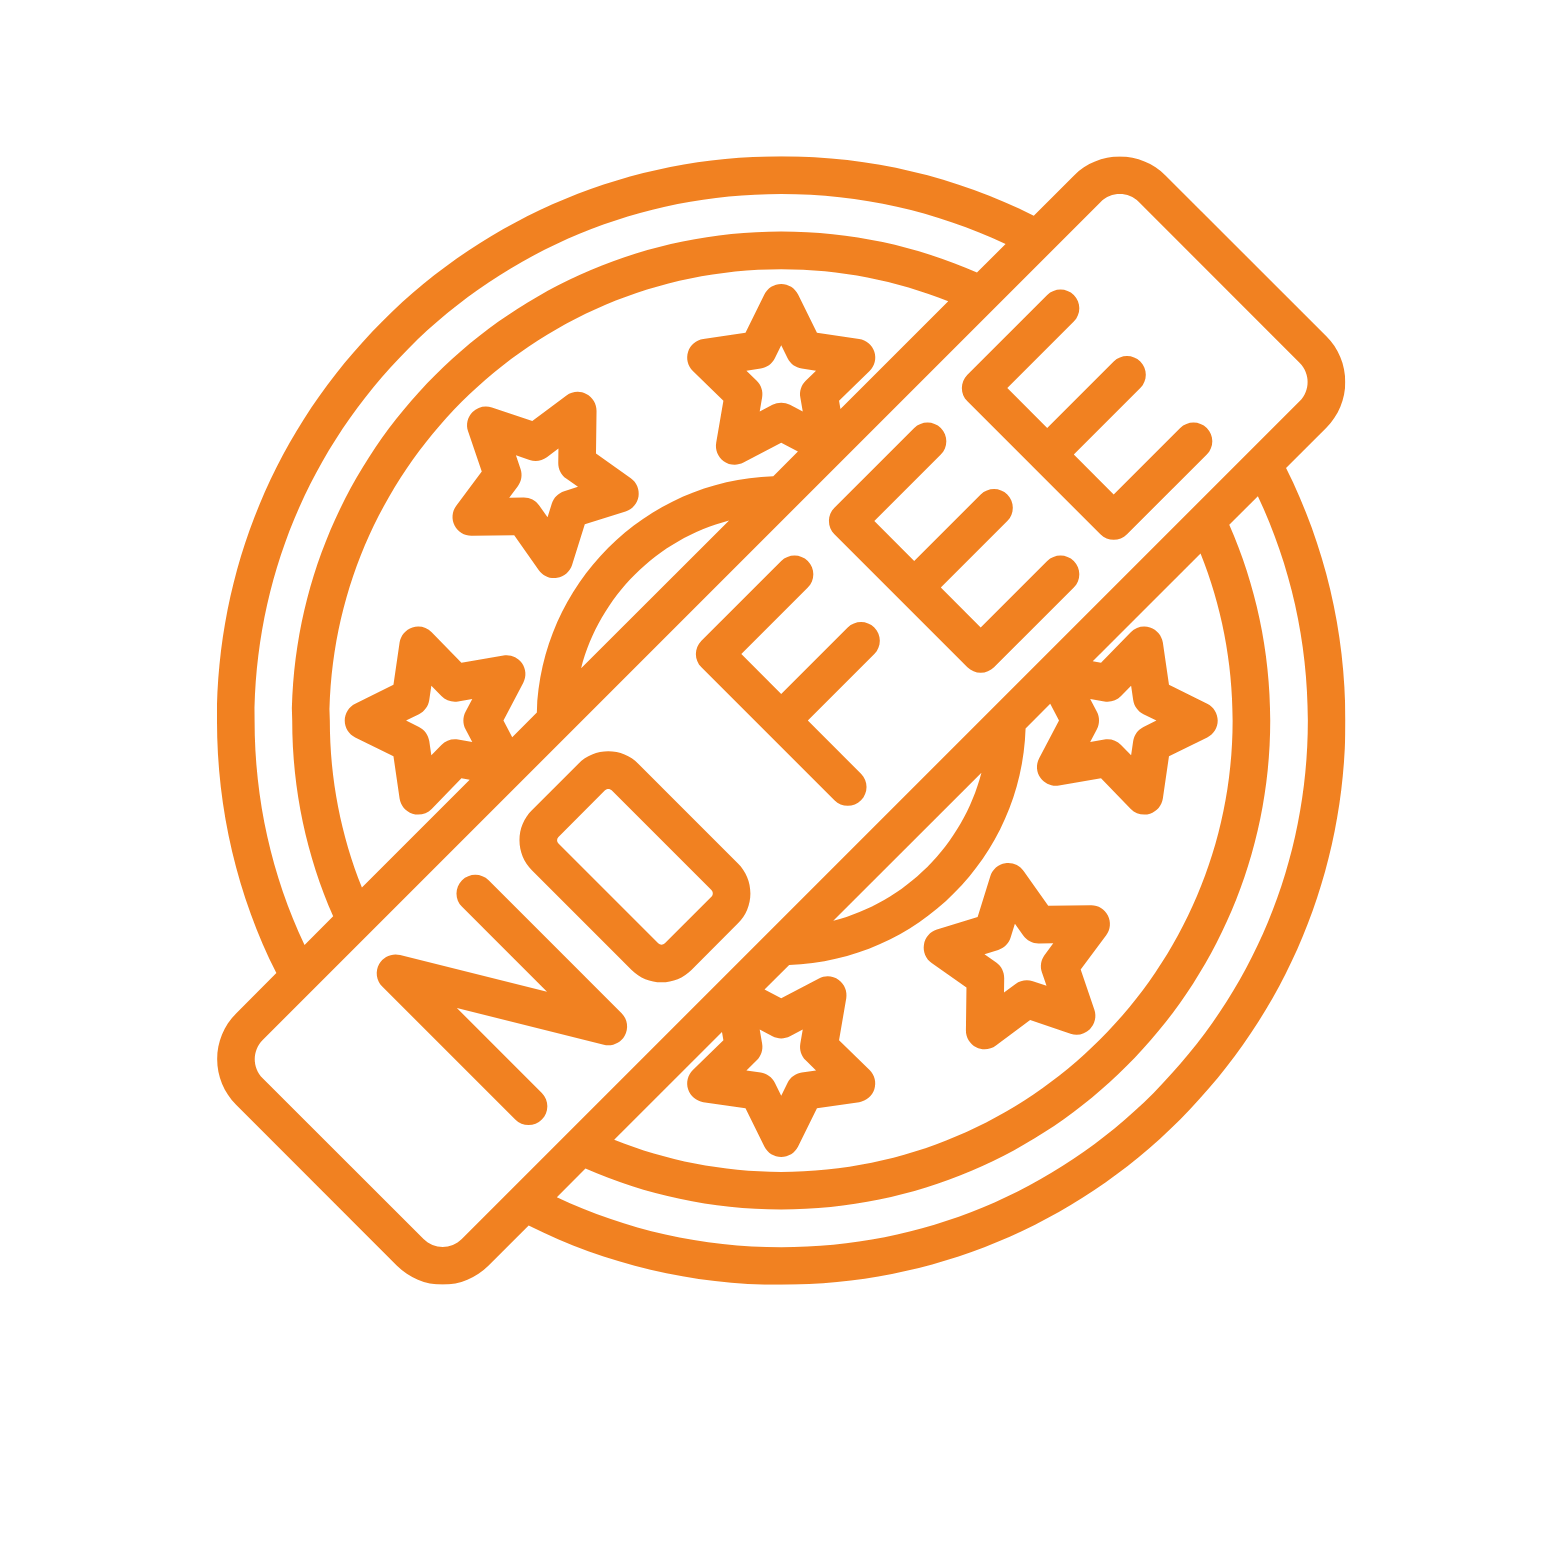
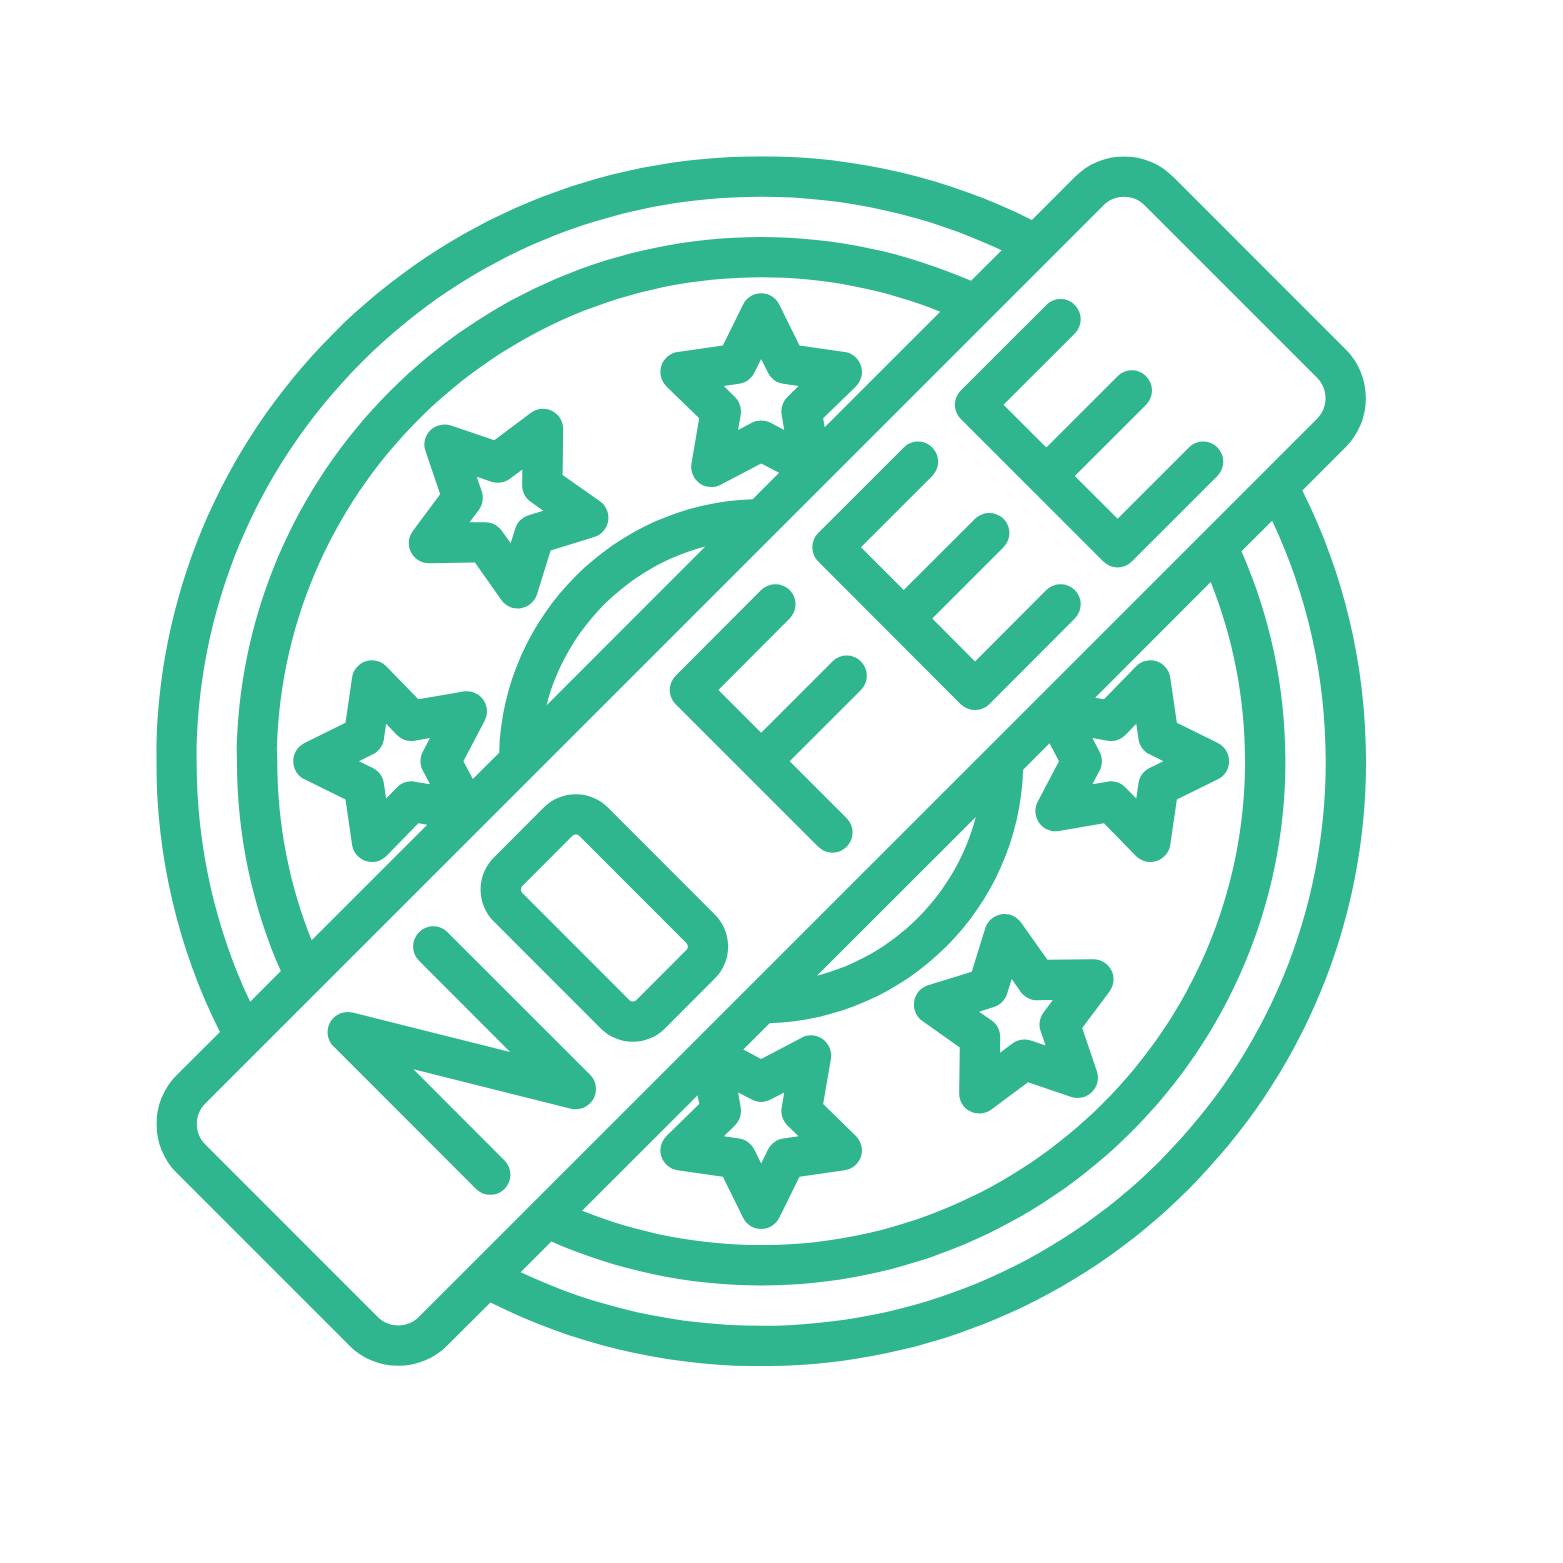
15/02 UI changes

diff --git a/src/components/User_portal/Home/LandingPage.js b/src/components/User_portal/Home/LandingPage.js
@@ -1,6 +1,6 @@
 // src/App.js
 import React, { useState } from "react";
-import logo from "../../../Images/Royal islamic.png";
+import logo from "../../../Images/RIB White logo (1).png";
 import landingpage from "../../../Images/landing_phone.png";
 import footer from "../../../Images/footer.png";
 import Accordion from "react-bootstrap/Accordion";
@@ -53,9 +53,9 @@ const LandingPage = () => {
       <nav>
         <div className="wrapper">
           <div className="logo">
-            <a href="#">
-              <img src={logo} alt="" style={{ width: "100px" }} />
-            </a>
+            <Link href="/">
+              <img src={logo} alt="" style={{ width: "170px" }} />
+            </Link>
           </div>
           <input type="radio" name="slider" id="menu-btn" />
           <input type="radio" name="slider" id="close-btn" />
@@ -321,6 +321,7 @@ const LandingPage = () => {
                   src={nofee}
                   className="img-fluid"
                   style={{ width: "80%" }}
+                  alt="nofee"
                 />
               </div>
               <div className="col-md-10 ">
@@ -337,6 +338,7 @@ const LandingPage = () => {
                   src={riskfree}
                   className="img-fluid"
                   style={{ width: "80%" }}
+                  alt="riskfree"
                 />
               </div>
               <div className="col-md-10">
@@ -354,6 +356,7 @@ const LandingPage = () => {
                   src={visadebit}
                   className="img-fluid"
                   style={{ width: "80%" }}
+                  alt="visadebiticon"
                 />
               </div>
               <div className="col-md-10">
@@ -373,6 +376,7 @@ const LandingPage = () => {
                   src={interesticon}
                   className="img-fluid"
                   style={{ width: "80%" }}
+                  alt="interesticon"
                 />
               </div>
               <div className="col-md-10">
@@ -389,6 +393,7 @@ const LandingPage = () => {
                   src={passbookicon}
                   className="img-fluid"
                   style={{ width: "80%" }}
+                  alt="passbookicon"
                 />
               </div>
               <div className="col-md-10">
@@ -404,6 +409,7 @@ const LandingPage = () => {
                   src={secureicon}
                   className="img-fluid"
                   style={{ width: "80%" }}
+                  alt="secureicon"
                 />
               </div>
               <div className="col-md-10">
@@ -447,7 +453,11 @@ const LandingPage = () => {
           <div className="col-md-4">
             <div className="row mt-2">
               <div className="col-md-2 text-center m-auto">
-                <img src={contactlessicon} className="img-fluid" />
+                <img
+                  src={contactlessicon}
+                  className="img-fluid"
+                  alt="contactlessicon"
+                />
               </div>
               <div className="col-md-10 ">
                 <h5>Contactless transactions</h5>
@@ -456,7 +466,11 @@ const LandingPage = () => {
             </div>
             <div className="row mt-2">
               <div className="col-md-2 text-center m-auto">
-                <img src={cashbackicon} className="img-fluid" />
+                <img
+                  src={cashbackicon}
+                  className="img-fluid"
+                  alt="cashbackicon"
+                />
               </div>
               <div className="col-md-10 ">
                 <h5>Cashback and offers</h5>
@@ -468,12 +482,16 @@ const LandingPage = () => {
             </div>
           </div>
           <div className="col-md-4">
-            <img src={landingpageCards} className="img-fluid" />
+            <img
+              src={landingpageCards}
+              className="img-fluid"
+              alt="landingpage"
+            />
           </div>
           <div className="col-md-4">
             <div className="row mt-2">
               <div className="col-md-2 text-center m-auto">
-                <img src={wideicon} className="img-fluid" />
+                <img src={wideicon} className="img-fluid" alt="wideicon" />
               </div>
               <div className="col-md-10 ">
                 <h5>Wide acceptance</h5>
@@ -482,7 +500,7 @@ const LandingPage = () => {
             </div>
             <div className="row mt-2">
               <div className="col-md-2 text-center m-auto">
-                <img src={withdraw} className="img-fluid" />
+                <img src={withdraw} className="img-fluid" alt="WithdrawMoney" />
               </div>
               <div className="col-md-10 ">
                 <h5>Withdraw cash from any ATM</h5>
@@ -616,6 +634,7 @@ const LandingPage = () => {
           <div>
             <img
               src={footer}
+              alt="Footer"
               className="img-fluid"
               style={{ height: "70vh", width: "100%" }}
             />

diff --git a/src/components/User_portal/Home/LandingPage.css b/src/components/User_portal/Home/LandingPage.css
@@ -326,8 +326,8 @@ nav input {
 }
 
 .landing_body_banner_bottom {
-  border-top: 20px solid #faede2;
-  border-bottom: 20px solid #f18121;
+  border-top: 20px solid #a2e0ce;
+  border-bottom: 20px solid #2fb68e;
   margin: 0px;
   opacity: 1;
 }
@@ -344,7 +344,7 @@ nav input {
   margin-top: -100px;
 }
 .landing_list1 h5 {
-  color: #f18121;
+  color: #2fb68e;
   font-size: 17px;
 }
 .landing_list1 p {
@@ -356,7 +356,7 @@ nav input {
   color: #2b457b;
 }
 .landing_img_content h5 {
-  color: #ff7600;
+  color: #2fb68e;
 }
 .landing_img_content p {
   color: #888;
@@ -368,7 +368,7 @@ nav input {
 }
 
 .landing_account_open_page {
-  background-color: #faede2;
+  background-color: #ceece3;
   height: 35vh;
   display: flex;
   align-items: center;
@@ -377,7 +377,7 @@ nav input {
 }
 .landing_account_open_page h1 {
   font-size: 30px;
-  color: #fa8121;
+  color: #2fb68e;
 }
 .landing_account_open_page p {
   margin-top: 20px;
@@ -385,10 +385,10 @@ nav input {
 }
 .landing_account_open_page span {
   font-size: 14px;
-  background-color: #f18121;
+  background-color: #2fb68e;
   padding: 10px 25px;
   border-radius: 50px;
-  color: #000;
+  color: #fff;
 }
 .landing_account_open_page a {
   text-decoration: none;
@@ -408,13 +408,13 @@ nav input {
 }
 
 .landing_item {
-  background: #faede2;
+  background: #ceece3;
   margin-bottom: 5px;
   padding: 10px 20px;
 }
 
 .landing_title {
-  color: #f18121;
+  color: #2fb68e !important;
   display: flex;
   justify-content: space-between;
   align-items: center;
@@ -446,7 +446,7 @@ footer {
 }
 
 footer h5 {
-  color: #f18121;
+  color: #2fb68e;
   padding-top: 50px;
 }
 footer p {
@@ -455,16 +455,16 @@ footer p {
 }
 
 .landing_page_login_btn a {
-  color: #f18121 !important;
-  border: 1px solid #f18121;
+  color: #2fb68e !important;
+  border: 1px solid #2fb68e;
 }
 .landing_page_login_btn {
   margin-top: 10px;
   font-weight: 500;
 }
 .landing_page_login_btn a:hover {
-  background: #faede2 !important;
-  color: #f18121 !important;
+  background: #ceece3 !important;
+  color: #2fb68e !important;
 }
 
 .nav-links li a:hover {

diff --git a/src/components/User_portal/Netbanking/Bank_Accounts/OtpPage.js b/src/components/User_portal/Netbanking/Bank_Accounts/OtpPage.js
@@ -177,12 +177,12 @@ return(
 
                             <div className="d-flex mt-3 mb-3">
                                 <button type="button" className="genrate_pin_buttons ml-3">
-        BACK
+                                    BACK
                                 </button>
                                 <button type="button" className="genrate_pin_submits ml-5" onClick={handleOtpValidation} >
                                     SUBMIT
                                 </button>
-                                                </div>
+                            </div>
                 </div>
 
             </div>

diff --git a/src/index.css b/src/index.css
@@ -1,13 +1,12 @@
-@import url('https://fonts.googleapis.com/css2?family=Poppins:wght@200;300;400;500;600;700&display=swap');
+@import url("https://fonts.googleapis.com/css2?family=Poppins:wght@200;300;400;500;600;700&display=swap");
 
 a {
-    color: black;
-    text-decoration: none;
-    background-color: transparent;
+color: black;
+text-decoration: none;
+background-color: transparent;
 }
 
-a:hover{
-
-    text-decoration: none;
-    background-color: transparent;
+a:hover {
+text-decoration: none;
+background-color: transparent;
 }
